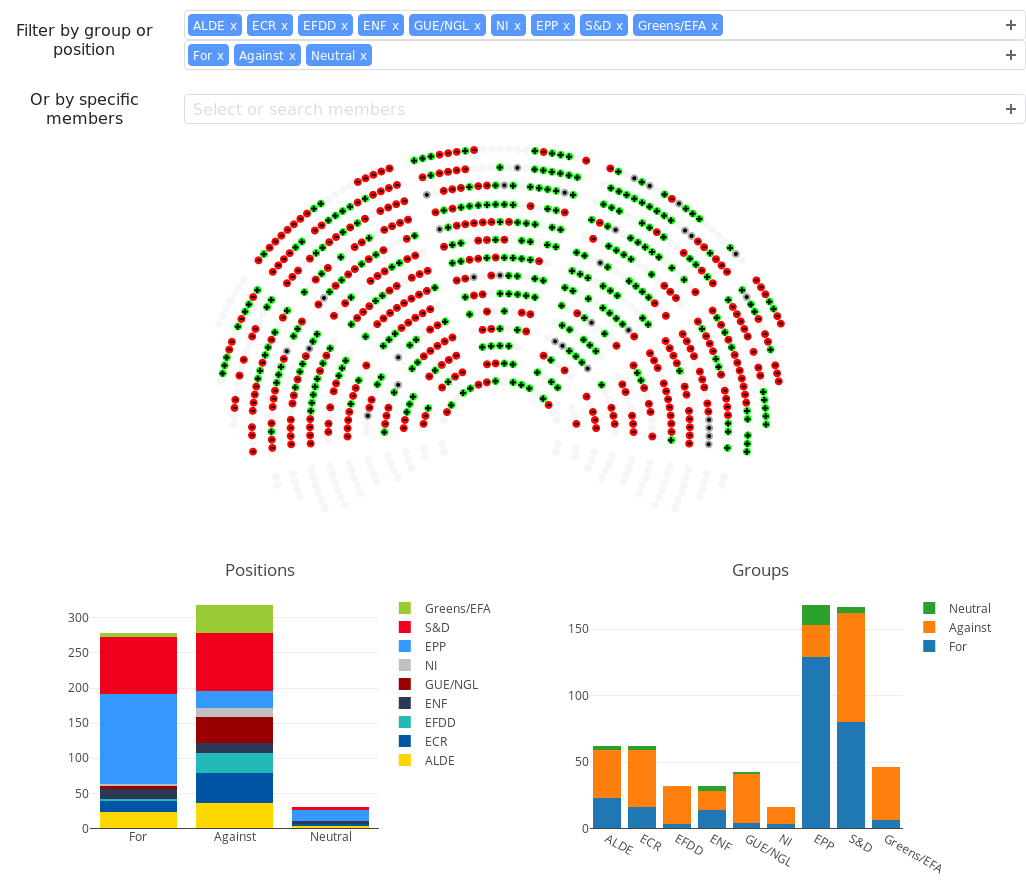
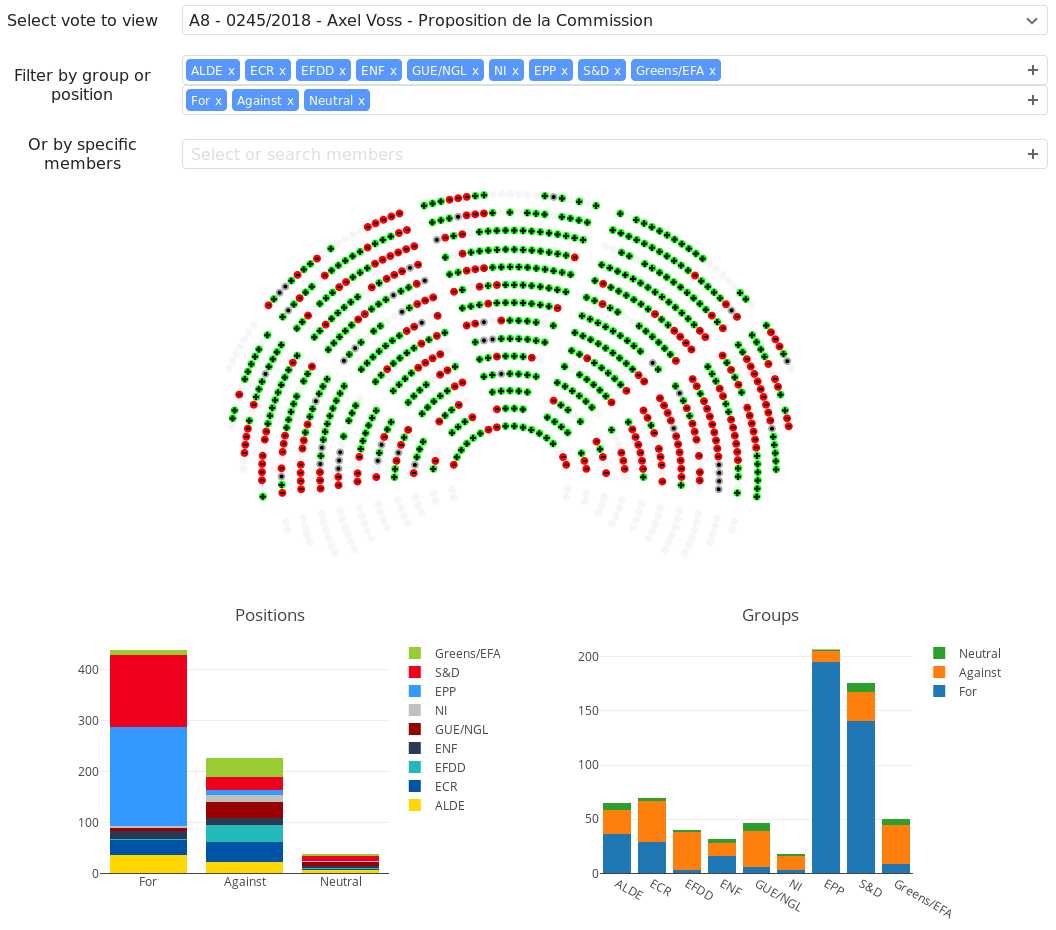
update description to include new votes
Updated index page
Update readme and preview

diff --git a/index.html b/index.html
@@ -17,13 +17,20 @@
 
   <main>
     <div class="intro">
-      <h3>EU Parliament vote on the 5th of July 2018 regarding the current EU copyright reform proposal</h3>
+      <h3>EU Parliament votes regarding Articles 11 and 13 of the Copyright Reform</h3>
       <p/>
-      In this vote, the European Parliament had to decide whether to confirm the Committee position on controversial Articles 11 and 13 of the proposal.
       <p/>
       Article 11 concerns the creation of a "link tax", imposing anyone using snippets (including link preview) of journalistic content to obtain a license from the publisher.
       <p/>
       Article 13 would impose to hosting platforms new preemptive filtering obligations for copyrighted content.
+      <p/>
+      Available votes are:
+      <ul>
+        <li>"A8 - 0245/2018 - Axel Voss - Décision d'engager des négociations interinstitutionnelles" (5th of July 2018) - the European Parliament rejected to confirm the Committee position on Articles 11 and 13.</li>
+        <li>"A8 - 0245/2018 - Axel Voss - Am 156, 157,158, 159, 160, 161" (12th of September 2018) - the European Parliament validated the current version of Article 13.</li>
+        <li>"A8 - 0245/2018 - Axel Voss - Proposition de la Commission" (12th of September 2018) - the European Parliament validated EU Commission proposal regarding articles 11 and 13.</li>
+      </ul>
+      <p/>
       <p/>
       <a href="https://saveyourinternet.eu/">More information on the reform proposal</a>
     </div>

diff --git a/README.md b/README.md
@@ -1,8 +1,6 @@
-# Interactive visualization of EU parliament vote on Copyright reform 
+# Interactive visualization of EU parliament votes on Copyright reform
 
-On the 5th of July 2018, the European Parliament had to decide whether to confirm the Committee position on controversial Articles 11 and 13 of the proposal.
-
-This website offers an interactive visualization of the vote.
+This website offers an interactive visualization of some of the votes of the EU Parliament regarding Articles 11 and 13 of the Copyright Reform.
 
 A live version of this site is available at [https://jorquera.net/euparlvote/](https://jorquera.net/euparlvote/).
 
